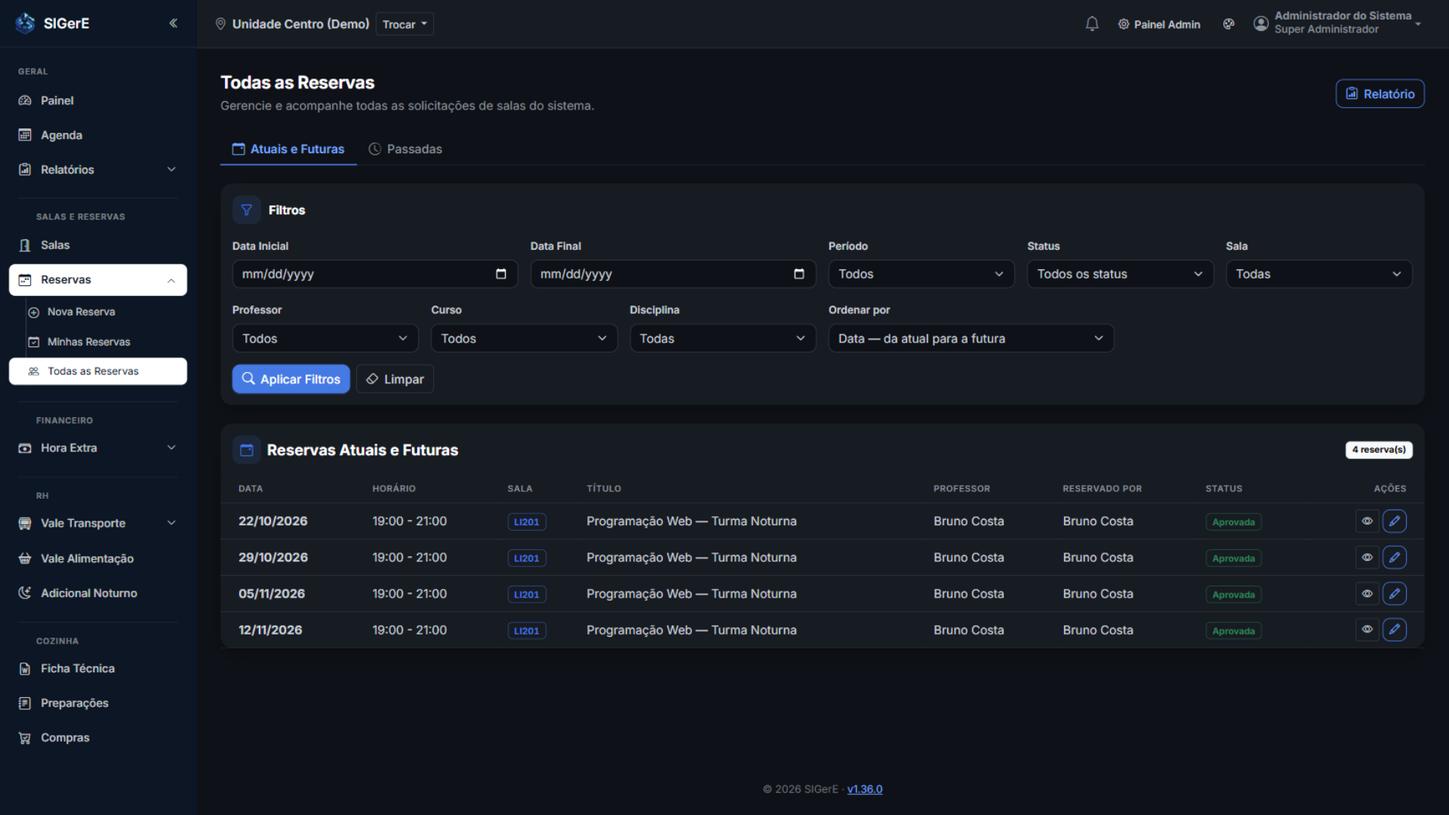
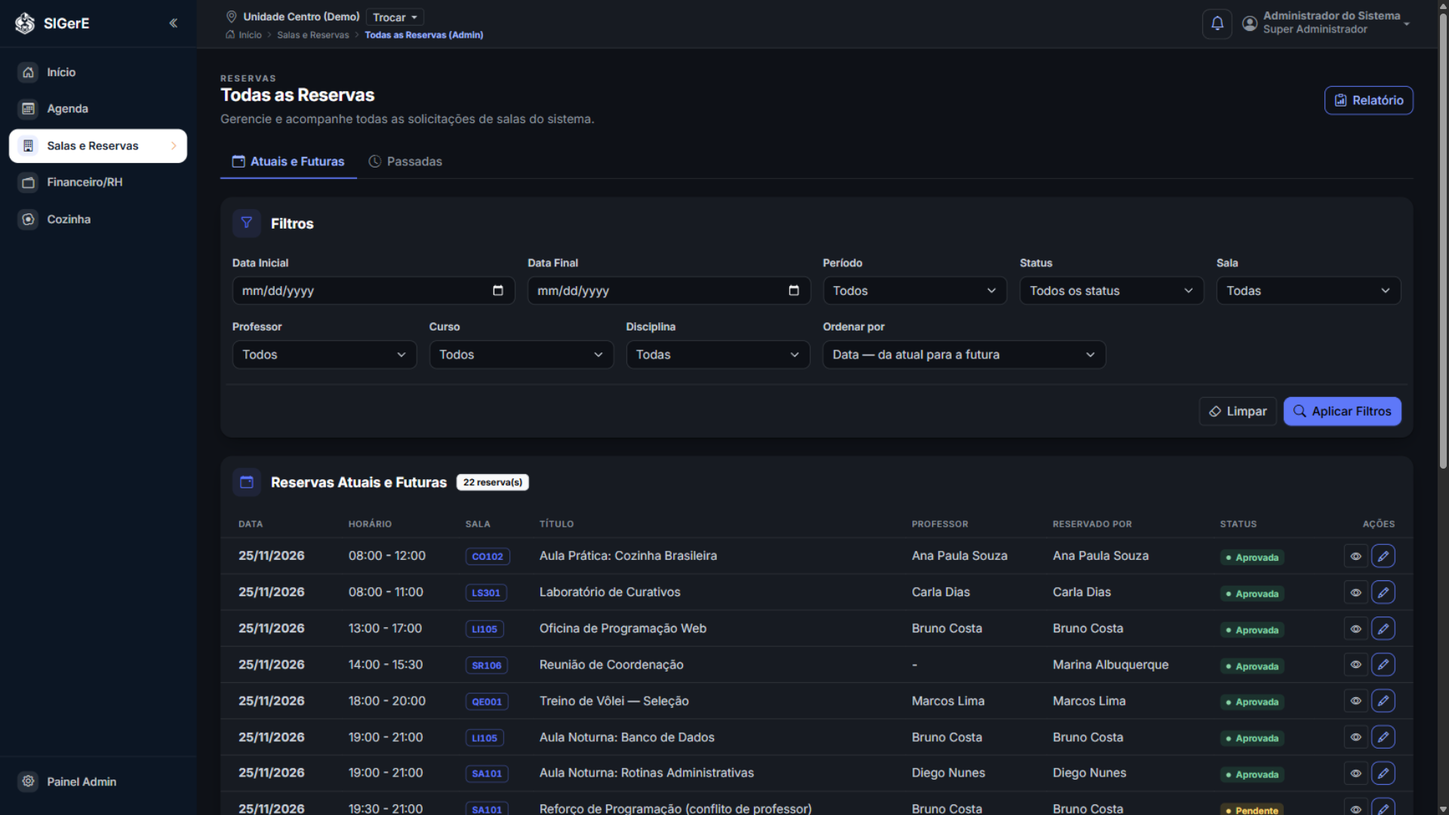
docs: README e capturas de tela atualizados para a v1.44.0
- README cobre as releases 1.38.0 a 1.44.0: hubs de navegação, Pesquisar
  Salas com intervalo de datas, atalho de reserva por dia, troca de perfil
  de usuario, Hora Extra com Tipo de Curso livre, retencao avo/pai/filho e
  verify-restore, modos do setup interativo
- novas secoes: Vale Alimentacao e tabela de comandos de manutenção (CLI)
- 10 capturas refeitas e 7 novas (Salas, Pesquisar Salas, hubs, Relatorio
  Geral, Painel Admin), em 1920x1080 com o cenario seed-demo

diff --git a/README.md b/README.md
@@ -41,7 +41,7 @@ O **SIGerE** é um sistema web desenvolvido em **Flask** para instituições edu
 
 - 🏛 **Reservas de espaços físicos** — salas de aula, auditórios, laboratórios de informática/saúde, cozinhas
 - 👨🏫 **Cronogramas de professores** com detecção automática de conflitos de horário
-- 💰 **Financeiro** — horas extras docentes (lançamento, consulta com filtros e exportação da planilha de pagamento)
+- 💰 **Financeiro/RH** — horas extras docentes, Vale Alimentação e Adicional Noturno (lançamento, consulta com filtros e exportação da planilha de pagamento)
 - 🏥 **RH — Vale Transporte** (formulário público do pedido, conferência e correção pelo RH em "Pedidos VT", relatório do período e exportação das planilhas de pagamento)
 - 🔔 **Notificações** — avisos no sino quando uma atividade reservada se aproxima da data (opt-in por reserva, com marcos de antecedência e destinatários — usuários e grupos — definidos na própria reserva)
 - 🍳 **Cozinha** — fichas técnicas (.docx), preparações e requisição de compra
@@ -50,7 +50,9 @@ O **SIGerE** é um sistema web desenvolvido em **Flask** para instituições edu
 - 🌐 **Portal público** com cronograma do dia e busca de aula para alunos
 - 🏢 **Multi-unidade** — dados isolados por unidade educacional (salas, reservas, cursos, feriados, cozinha); o mesmo usuário pode atuar em várias unidades e alterna a unidade ativa pelo topo
 
-O sistema possui **controle de acesso baseado em papéis (RBAC)** com permissões granulares, tema claro/escuro persistente, exportação de relatórios em PDF/Excel, layout responsivo (mobile/tablet/desktop) e seed opcional de dados de demonstração.
+O sistema possui **controle de acesso baseado em papéis (RBAC)** com permissões granulares, tema claro/escuro persistente, exportação de relatórios em PDF/Excel, layout responsivo (mobile/tablet/desktop) e seed opcional de dados de demonstração. A barra lateral é organizada em **hubs** — Salas e Reservas, Financeiro/RH, Cozinha e Painel Admin —, cada um abrindo em cards-portais para as telas da seção.
+
+**Operação:** o banco tem backup comprimido com retenção avô/pai/filho, upload opcional para nuvem S3-compatível e um comando (`verify-restore`) que prova que o backup volta; o passo a passo do dia que der ruim está em [`docs/runbook-restauracao.md`](docs/runbook-restauracao.md).
 
 **Primeira implantação:** após o `seed-admin`, o painel do super-admin exibe um **checklist de configuração inicial** (unidade, categorias, salas, professores, funcionários, cursos/disciplinas e feriados) — cada passo confere dados reais do banco, marca o que já existe e some quando a implantação está completa.
 
@@ -58,19 +60,27 @@ O sistema possui **controle de acesso baseado em papéis (RBAC)** com permissõe
 
 ## 📸 Capturas de Tela
 
-Telas do sistema com os dados de demonstração (`flask seed`) — disponíveis em [`docs/screenshots/`](docs/screenshots/).
+Telas do sistema na v1.44.0, em 1920×1080 com tema escuro e o cenário de demonstração (`flask seed-demo`) — disponíveis em [`docs/screenshots/`](docs/screenshots/).
 
-| Painel (resumo do dia) | Calendário com filtros |
+| Painel (resumo do dia) | Agenda com filtros |
 |---|---|
-| ![Painel com o resumo das reservas do dia](docs/screenshots/02-dashboard.png) | ![Calendário com filtros de reserva](docs/screenshots/03-calendario.png) |
+| ![Painel com o resumo das reservas do dia](docs/screenshots/02-dashboard.png) | ![Agenda com filtros de reserva](docs/screenshots/03-calendario.png) |
 
-| Lista de Reservas | Disponibilidade mensal da sala |
+| Todas as Reservas | Disponibilidade mensal da sala |
 |---|---|
-| ![Lista de todas as reservas com situações](docs/screenshots/04-reservas.png) | ![Disponibilidade mensal da sala](docs/screenshots/05-disponibilidade-sala.png) |
+| ![Lista de todas as reservas com situações](docs/screenshots/04-reservas.png) | ![Disponibilidade mensal da sala, com feriados marcados e o atalho de reserva por dia](docs/screenshots/05-disponibilidade-sala.png) |
 
-| Totem digital (TV de corredor) | Portal público |
+| Salas (vitrine por andar) | Pesquisar Salas (intervalo de datas e períodos) |
 |---|---|
-| ![Totem de ocupação de salas com clima](docs/screenshots/06-totem.png) | ![Cronograma público do dia](docs/screenshots/08-portal-cronograma.png) |
+| ![Cartões das salas agrupados por andar](docs/screenshots/11-salas.png) | ![Pesquisa de salas com intervalo de datas e períodos aplicados](docs/screenshots/12-pesquisar-salas.png) |
+
+| Hub Salas e Reservas | Hub Financeiro/RH |
+|---|---|
+| ![Central de Salas e Reservas com os cards de Salas, Reservas e Relatórios](docs/screenshots/13-hub-salas-e-reservas.png) | ![Central Financeiro/RH com os cards de Hora Extra, Vale-Transporte, Vale Alimentação e Adicional Noturno](docs/screenshots/14-hub-financeiro-rh.png) |
+
+| Totem digital (TV de corredor) | Cronograma público do dia |
+|---|---|
+| ![Totem de ocupação de salas com clima](docs/screenshots/06-totem.png) | ![Cronograma público do dia por período, com o selo Agora](docs/screenshots/08-portal-cronograma.png) |
 
 | API de Reservas (JSON) | Quadro de porta para tablet (app de exemplo) |
 |---|---|
@@ -81,7 +91,15 @@ Telas do sistema com os dados de demonstração (`flask seed`) — disponíveis 
 
 | Login | Home pública |
 |---|---|
-| ![Tela de login](docs/screenshots/01-login.png) | ![Home pública](docs/screenshots/07-portal-home.png) |
+| ![Tela de login](docs/screenshots/01-login.png) | ![Home pública com busca de aula, cronograma do dia e login](docs/screenshots/07-portal-home.png) |
+
+| Hub Cozinha | Relatório Geral |
+|---|---|
+| ![Central da Cozinha com os cards de Ficha Técnica, Preparações e Compras](docs/screenshots/15-hub-cozinha.png) | ![Relatório Geral de Salas e Reservas com indicadores e gráficos](docs/screenshots/16-relatorio-geral.png) |
+
+| Painel Administrativo | |
+|---|---|
+| ![Painel Administrativo com os cards das áreas de administração](docs/screenshots/17-painel-admin.png) | |
 
 </details>
 
@@ -108,8 +126,10 @@ Telas do sistema com os dados de demonstração (`flask seed`) — disponíveis 
 - **Gerenciamento de série:** edite ou cancele/exclua em lote as reservas geradas por uma repetição (horário, sala, título — com validação de conflito por data) na opção **"Gerenciar Série"** da reserva ou da tela de repetição
 - **Auto-aprovação:** reservas sem conflitos são aprovadas instantaneamente
 - **Reservas passadas são registro:** com a data anterior a hoje, o detalhe fica somente leitura (sem repetir, cancelar, editar ou excluir) e as rotas recusam as alterações — inclusive para administradores
+- **Atalho de reserva por dia:** nas visões de semana e mês da Disponibilidade da sala, cada dia reservável tem um **"+"** que abre a criação de reserva com a sala e a data já preenchidas; domingos e feriados ativos da unidade aparecem com uma faixa com o nome e sem o atalho (sala inativa e datas passadas também não oferecem o atalho)
+- **Fila de pendências a um clique:** quem aprova vê no Painel e no hub Salas e Reservas um atalho para as reservas pendentes
 - **Ciclo de vida:** aprovar, cancelar (status `cancelled` mantém histórico) e excluir permanentemente (admins)
-- **Filtros de disponibilidade:** salas disponíveis agora, em data/período específico ou por categoria
+- **Filtros de disponibilidade:** salas disponíveis agora, em data/período específico ou por categoria — na página **Pesquisar Salas** (ver [Gestão de Salas e Categorias](#-gestão-de-salas-e-categorias))
 - **Compartilhar reserva:** botão no detalhe gera mensagem enxuta e amigável (sala, curso, disciplina, professor, data/hora por extenso e descrição/finalidade) para enviar por **e-mail** ou **WhatsApp** — abre o programa de e-mail (`mailto:`) ou o WhatsApp (`wa.me`) do próprio usuário, sem configuração de SMTP no servidor; mensagem editável antes do envio e opção de copiar. Não aparece em reservas passadas nem canceladas
 
 ### 🏛 Gestão de Salas e Categorias
@@ -118,7 +138,10 @@ Telas do sistema com os dados de demonstração (`flask seed`) — disponíveis 
 - **Categorias padrão da seed:** Sala de Aula (`SA`), Auditório (`AU`), Cozinha (`CO`), Laboratório de Informática (`LI`), Laboratório de Saúde (`LS`) e Quadra de Esportes (`QE`)
 - **Código automático:** geração de códigos no formato `SA101`, `AU101`, `LI105`, `LS301` (sigla da categoria + número da sala)
 - **Atributos da sala:** capacidade, andar, bloco, número e quantidade de computadores
-- **Visualização mensal:** calendário de ocupação por sala com navegação entre meses
+- **Página "Salas" como vitrine** (`/classrooms`): apenas os cartões das salas agrupados por andar, com os botões Relatório e Adicionar Sala
+- **Pesquisar Salas** (`/classrooms/search`): card ao lado de "Salas" no hub Salas e Reservas — o bloco de filtros da antiga listagem virou uma busca própria, com o resultado em cartões abaixo dos filtros e o **Exportar PDF** no topo; a página fica limpa até um filtro ser aplicado. Links antigos da listagem com filtro continuam válidos e redirecionam para a pesquisa com os mesmos critérios
+- **Pesquisa por intervalo de datas:** além do dia único, "Disponível de / até" aceita um intervalo — a sala precisa estar livre nos períodos marcados em **todos os dias** do intervalo; a data final vazia vale dia único, datas invertidas são trocadas e o relatório exportado descreve o intervalo no cabeçalho. Sem período marcado, as datas não filtram
+- **Visualização mensal:** calendário de ocupação por sala com navegação entre semanas e meses
 - **Exportação:** PDF (landscape A4) da listagem e da disponibilidade mensal
 - **Ativação/desativação** de salas e categorias sem exclusão
 
@@ -126,6 +149,8 @@ Telas do sistema com os dados de demonstração (`flask seed`) — disponíveis 
 - **Perfis distintos:**
   - **Professor:** departamento, matrícula, unidade
   - **Funcionário:** setor, função, unidade, com opção de "também atuar como professor"
+- **Troca de perfil na edição:** Professor ↔ Funcionário depois do cadastro, para acompanhar a mudança de função dentro da instituição — os campos de vínculo se ajustam ao novo tipo (professor grava Departamento; funcionário grava Setor e Função, com a marcação "Também cadastrar como Professor" para quem continua lecionando), os campos do perfil anterior são zerados e o papel legado acompanha o perfil. As listas de professores (reservas, agenda, relatórios, Hora Extra, Vale Alimentação, Adicional Noturno e busca pública) refletem a troca na hora
+- **Formulário em seções rotuladas:** Identificação, Vínculo e Lotação, Acesso e Permissões — a Situação do acesso sai do meio do formulário e vai para o cartão **"Acesso e bloqueio"**, que aparece para qualquer operador em modo edição com o badge de três estados (Bloqueada, Inativa, Acesso liberado) e dica de onde desbloquear; tentativas e horário do bloqueio ficam visíveis apenas a quem tem `user:lock`
 - **Busca e filtros:** filtrar usuários por nome ou tipo de perfil, com paginação
 - **Reset de senha pelo admin:** gera uma senha temporária aleatória (exibida uma única vez) e força a troca no próximo login
 - **Segurança:** forçar troca de senha no primeiro login ou após reset administrativo
@@ -160,7 +185,7 @@ Telas do sistema com os dados de demonstração (`flask seed`) — disponíveis 
 - Adaptação automática ao tema claro/escuro
 
 ### 📊 Relatórios (`/relatorios`)
-Menu próprio na barra lateral, logo depois da Agenda, com as duas visões (acesso ligado a `reservation:read_all`); ambos com botão **Imprimir / PDF** na própria página:
+Cards no hub **Salas e Reservas**, com as duas visões (acesso ligado a `reservation:read_all`); ambos com botão **Imprimir / PDF** na própria página:
 - **Relatório Geral (`/relatorios/geral`):** panorama gerencial das reservas da unidade no período escolhido (padrão: mês corrente) — indicadores (reservas aprovadas, horas reservadas, salas utilizadas, docentes envolvidos), gráficos (status, período do dia, dia da semana, horas por sala), ocupação por sala com participação percentual, reservas por curso, carga por docente e o quadro **"Professores e cursos"** com duas abas: *Professores por curso* (total do curso e horas de cada professor) e *Cursos por professor* (carga total do professor e quanto cada curso contribuiu)
 - **Relatório Personalizado (`/relatorios/personalizado`):** monte a própria relação de reservas combinando **período** (datas), **status** (aprovadas/pendentes/canceladas), **sala**, **professor**, **curso**, **disciplina**, **período do dia** (manhã/tarde/noite), **busca no título**, **ordenação** (crescente/decrescente) e **agrupamento** por data, sala, professor, curso, disciplina ou sem agrupamento — faixas de grupo com contagem e horas somadas, KPIs do filtro (reservas, horas, salas e professores diferentes) e descrição dos filtros aplicados sob o título; impressão em paisagem
 - A URL antiga `/reservations/relatorio` continua viva e redireciona para o Relatório Geral preservando os filtros
@@ -175,24 +200,37 @@ Menu próprio na barra lateral, logo depois da Agenda, com as duas visões (aces
 - **Varredura agendada:** comando idempotente `flask --app run notify-scan` (systemd timer a cada 15 minutos em produção; `--dry-run` para prévia)
 - **Cancelamento automático de pendências:** comando idempotente `flask --app run autocancel-pendentes` (mesmo timer do `notify-scan`; `--dry-run` para prévia) cancela a reserva pendente que não foi aprovada até 1 hora antes do horário agendado — inclui pendências cujo início já passou — e avisa o criador com o motivo
 
-### 💰 Financeiro
-- **Horas Extras:** com nível de ensino, valor hora, turno e dias selecionados no calendário (gravados apenas como dia, separados por vírgula — o mês/ano vêm do Mês Base)
+### 💰 Financeiro/RH (`/financeiro-rh`)
+Os módulos financeiros e de RH vivem num hub único da barra lateral — Hora Extra, Vale-Transporte, Vale Alimentação e Adicional Noturno —, com cards-portais que só mostram os caminhos permitidos para quem acessa. As URLs antigas `/financeiro` e `/rh` redirecionam para cá.
+
+#### Hora Extra (`/payments/overtime`)
+- **Horas Extras:** com nível de ensino, valor hora, turno e dias selecionados no calendário (gravados apenas como dia, separados por vírgula — o mês/ano vêm do Mês Base); o **Tipo de Curso é texto livre** (até 60 caracteres), sem catálogo
 - **Regras de negócio:**
-  - Janela de lançamento: do dia 21 do mês anterior ao dia 20 do mês de referência (o Mês Base segue essa janela)
+  - Janela de lançamento: do dia 21 do mês anterior ao dia 20 do mês de referência (o Mês Base segue essa janela); o pagamento acontece no mês seguinte ao de referência
   - O gestor pode **fechar o mês** ("Fechar Mês"); fechado, o mês fica somente leitura para lançamento, edição e exclusão
+- **Dica do Mês de Referência:** abaixo do campo, uma frase por linha informa o intervalo de lançamento e o mês de pagamento; as opções do seletor seguem a janela 20→20
 - **Consulta:** filtro de Mês Base em caixa de seleção (meses já lançados + mês atual, abrindo no mês atual, com opção "Todos os meses") combinado com filtro por professor
 - **Código Orçamentário:** máscara automática com pontos — `xx.xx.xxxx.x` (9 dígitos) ou `xx.xx.xxxx.xx.xxxx` (14 dígitos), aplicada no cadastro e na exportação
 - **Exportação Excel:** planilha formatada com modelo pré-definido (`base_pagamento_extra.xlsx`), filtrável por mês e/ou professor
+- **Professor gravado é preservado:** na edição, o professor do lançamento permanece selecionável mesmo que a conta tenha deixado de ser professor (troca de perfil ou desativação) — salvar sem mexer no seletor não reatribui o lançamento
+
+#### Vale Alimentação — Professores (`/payments/meal-allowance`)
+- **Lançamentos:** um registro por professor e mês de referência, com a quantidade de dias trabalhados, na mesma página de consulta (filtro por mês e professor)
+- **Listar Professores dos Agendamentos:** importa um lançamento para cada professor com reserva aprovada no mês escolhido — os dias são a quantidade de datas distintas com aula (duas aulas no mesmo dia contam uma vez); quem já possui lançamento no mês é mantido, então repetir não duplica
+- **Edição e limpeza:** correção e exclusão individuais, e limpeza de todos os lançamentos da unidade (independente do filtro da listagem)
+- **Exportação Excel:** planilha `vale_alimentacao_professores.xlsx`, uma linha por professor
+- **Permissões:** `meal:read`, `meal:create`, `meal:edit`, `meal:delete`
 
 ### 🏥 RH — Vale Transporte (`/vt`)
-Módulo no bloco **RH** do menu lateral (o Financeiro concentra apenas a Hora Extra). O ciclo do mês tem duas pontas: o **colaborador responde o formulário público** e o **RH confere, corrige e exporta** em Pedidos VT:
+Módulo do hub **Financeiro/RH**. O ciclo do mês tem duas pontas: o **colaborador responde o formulário público** e o **RH confere, corrige e exporta** em Pedidos VT:
 - **Formulário público (`/vt/pedido`):** sem login, o colaborador informa o e-mail e clica em **Buscar** — conta ativa é apenas confirmada na tela (primeiro nome e vínculo) e nome, matrícula e vínculo são preenchidos pelo cadastro no envio (quem já está logado no sistema chega com os próprios dados preenchidos; e-mail sem conta, os campos ficam livres para digitação) —, se deseja VT no mês e, para cada empresa de ônibus usada (1 ou 2), a tarifa vigente, o trajeto (Somente Volta ou Ida e Volta) e o número de vales necessários; link por unidade (`/vt/pedido?unity=<id>`), com data de fechamento opcional que encerra o preenchimento
-- **Pedidos VT (`/vt/pedidos`):** listagem das respostas da unidade com botão **"Copiar link do formulário"**, filtros (busca por nome/e-mail/matrícula, vínculo, deseja VT, ordenação, esconder não optantes com valor R$ 0,00), correção individual de qualquer campo e exclusão de pedidos inválidos
+- **Busca sem expor o cadastro:** nome completo, matrícula e vínculo só saem do servidor no envio do pedido (proteção contra enumeração de cadastros no formulário anônimo); visitante logado com e-mail divergente do campo segue pela busca normal
+- **Pedidos VT (`/vt/pedidos`):** listagem das respostas da unidade com botão **"Copiar link do formulário"**, filtros (busca por nome/e-mail/matrícula, vínculo, deseja VT, ordenação, esconder não optantes com valor R$ 0,00), correção individual de qualquer campo — quem corrige (`vt:edit`) digita exatamente o que deve ser gravado, sem sobrescrita pelo cadastro — e exclusão de pedidos inválidos
 - **Planilha de pagamento:** exportação Excel por grupo — Todos os grupos, Técnico-Administrativo ou Professores — preenchendo o modelo `planilha_base_vt.xlsx` (Matrícula, Nome e Valor Total a partir da linha 5, máximo de 72 linhas por arquivo); inclui apenas Optante "Sim" com passes maior que zero; a coluna UO e a tabela de códigos de unidades do modelo são preservadas intactas
 - **Relatório (`/vt/relatorio`):** indicadores do período (pedidos recebidos, adesão dos optantes, vales necessários, investimento estimado), gráficos (deseja VT, optantes por vínculo, trajetos, investimento por empresa), resumo por empresa de ônibus e conferência do RH (e-mails e matrículas repetidas), com versão para imprimir/PDF
 - **Administração:** cadastro de **Empresas de Ônibus** com tarifas (pares identificação + valor, ex.: "Patamar 3" + `7,24`) e **Configurações do Pedido VT** (números base de vales por trajeto e data de fechamento) — ambos no Painel Admin e usados pelo formulário público
 
-### 🌙 RH — Adicional Noturno (`/adicional-noturno`)
+### 🌙 Adicional Noturno — Professores (`/adicional-noturno`)
 Adaptação web do gerador local "Gerador-Ad-Noturno-SENAC-FL": o formulário replica as colunas da planilha **"Adicional Noturno Professores"** (Matrícula, Professor, Adicional Noturno Sim/Não, Horas/Aula, Minutos e Unidade) e a exportação preenche a planilha de pagamento no modelo `planilha_base_an.xlsx` ("TABELA PARA PAGAMENTO ADICIONAL NOTURNO PROFESSOR"):
 - **Lançamentos (`/adicional-noturno`):** formulário e listagem na mesma página, com mês de referência (cada lançamento fica no mês escolhido e o filtro mostra um mês por vez), referência dos códigos UO das unidades do Senac SC e correção individual (editar/excluir, `an:edit` / `an:delete`)
 - **Importação da planilha:** upload do arquivo `.xlsx` no modelo "Adicional Noturno Professores" — as colunas são localizadas pelo cabeçalho da primeira linha (Matrícula, Professor, Adicional Noturno, Horas/Aula, Minutos e Unidade) e cada linha com matrícula e professor vira um lançamento no mês selecionado; quem já possui lançamento no mês é mantido, então reimportar não duplica
@@ -201,6 +239,7 @@ Adaptação web do gerador local "Gerador-Ad-Noturno-SENAC-FL": o formulário re
 - **Permissões:** `an:read`, `an:create`, `an:edit`, `an:delete`, `an:export`
 
 ### 🍳 Cozinha (`/kitchen`)
+Módulo do hub **Cozinha** (`/cozinha`), que reúne os cards de Fichas Técnicas, Preparações e Compras — a criação da ficha e o upload dos arquivos também podem ser feitos direto do hub.
 - **Ficha Técnica:** envio de múltiplos arquivos `.docx` de fichas técnicas operacionais de uma vez; o sistema lê o conteúdo do modelo em tabelas (nome da preparação, equipamentos, utensílios, tempo de preparo, rendimento, tabela única de insumos com especificações/quantidade/unidade, modo de preparo e notas técnicas — observações, alergênicos e referências) e um botão **Salvar Ficha Técnica** gera a preparação; também é possível **criar a ficha manualmente** pelo botão "Criar Ficha Técnica", no mesmo modelo
 - **Preparações:** cada ficha salva gera uma receita visualizável em **cards ou lista** (à escolha do usuário, persistida no navegador), com busca por nome; a visualização completa traz equipamentos, utensílios, tempo, rendimento, ingredientes por preparação (especificação, quantidade e unidade), modo de preparo geral, alergênicos, observações e referências; os ingredientes podem ser **editados e ativados/desativados** — desativados, ficam de fora da requisição de compra; há **recálculo das quantidades por porções desejadas** (base = menor rendimento informado, ex.: "4 a 6 porções" usa 4) com prévia instantânea e botão **Salvar quantidades**, que persiste a escala na preparação — a partir daí a exibição e a requisição de compra usam os novos valores, com "Restaurar originais" para voltar ao rendimento da ficha — e **edição de todos os campos da preparação**
 - **Compras:** seleção de múltiplas preparações e **soma dos ingredientes por similaridade** (acentos, plurais e parênteses normalizados), com conversão automática de unidades (g→KG, ml→L, un→UN) e exportação da **requisição de compra em Excel** preenchendo o modelo `app/static/templates_excel/base_planilha_compras.xlsx` ("REQUISIÇÃO DE COMPRA - GASTRONOMIA", com aba de centros de custo); a coluna OBSERVAÇÃO é exportada em branco, com as linhas da grade, para ser preenchida posteriormente
@@ -217,7 +256,11 @@ Adaptação web do gerador local "Gerador-Ad-Noturno-SENAC-FL": o formulário re
 
 ### 🎨 UI/UX
 - **Aparência:** um único seletor na barra superior reúne o tema claro/escuro e a cor da interface (Azul Senac padrão, Verde, Turquesa, Roxo, Rosa, Vermelho, Laranja ou Grafite), com escolha persistida no `localStorage`
+- **Hubs de navegação:** a barra lateral achatada reúne as telas em três hubs — Salas e Reservas, Financeiro/RH e Cozinha — além do Painel Admin; cada hub abre um bloco de conteúdos por vez (cards-portais), e os itens que não aparecem para quem não tem permissão somem sozinhos. As antigas centrais separadas de Financeiro e RH foram fundidas
 - **Menu lateral contrátil:** botão no cabeçalho alterna entre expandido e modo compacto de ícones (desktop), com preferência salva no navegador; clicar num grupo com submenu reexpande o menu
+- **Login e landing coesos:** as duas telas compartilham o mesmo formulário, com caixa única para os campos
+- **Mobile:** o menu lateral tem backdrop e fecha ao tocar fora ou com ESC; a unidade ativa e a trilha aparecem na barra superior do celular, onde também é possível trocar de unidade
+- **Tema escuro completo:** tabelas, trilha de progresso, campo de arquivo e modal de disponibilidade acompanham o modo escuro
 - **Design responsivo:** Bootstrap 5, todas as páginas adaptadas a mobile, tablet e desktop
 - **Interface em Português:** todo o sistema localizado para pt-BR
 - **Paginação** reutilizável em listagens (`_pagination.html`)
@@ -240,7 +283,7 @@ Adaptação web do gerador local "Gerador-Ad-Noturno-SENAC-FL": o formulário re
 | **Relatórios** | FPDF2 (PDF), OpenPyXL (Excel) |
 | **Rate limiting** | Flask-Limiter |
 | **Produção** | Gunicorn (WSGI) + Nginx (proxy/TLS) |
-| **Backup** | Comando `flask backup` (SQLite/PostgreSQL, gzip + retenção) com upload para nuvem S3-compatível e agendamento por systemd timer/cron |
+| **Backup** | Comando `flask backup` (SQLite/PostgreSQL, gzip + retenção avô/pai/filho) com upload para nuvem S3-compatível; `flask verify-restore` prova que o backup volta; agendamento por systemd timer/cron |
 | **APIs Externas** | [Open-Meteo](https://open-meteo.com/) (clima), [BrasilAPI](https://brasilapi.com.br/) (feriados), [Nominatim/OpenStreetMap](https://nominatim.org/) (geocodificação) |
 
 ---
@@ -254,6 +297,8 @@ Guias detalhados disponíveis no diretório [`docs/`](docs/):
 | 📘 [Manual do Usuário](docs/manual-do-usuario.pdf) | Operação do sistema para todos os perfis: acesso, reservas, notificações, salas, calendário, portal público, totem, financeiro (hora extra), RH (Vale-Transporte, Vale Alimentação e Adicional Noturno), cozinha, administração (incluindo auditoria) e API |
 | 🛠 [Desenvolvimento e Debug](docs/desenvolvimento-debug.md) | Ambiente na sua máquina: modo debug (`FLASK_DEBUG`), banco local, migrações, testes, depuração e erros comuns |
 | 🚢 [Implantação em Produção](docs/implantacao-producao.md) | Servidor real: PostgreSQL, Redis, Gunicorn + systemd, Nginx, HTTPS, atualização, backup e solução de problemas |
+| 🚑 [Runbook de restauração](docs/runbook-restauracao.md) | O dia que der ruim: como restaurar o banco em PostgreSQL e SQLite, quanto tempo leva e o que se perde |
+| 🧭 [Guia de continuidade](docs/guia-continuidade.md) | O projeto em 60 segundos: ambiente, fluxo de branches/PRs, ciclo de release, produção e decisões de design já tomadas |
 | 📡 [API de Reservas](docs/api-reservas.md) | Uso da API REST de leitura para apps externos: autenticação, parâmetros, exemplos e FAQ |
 | 🗂 [Permissões e Papéis](docs/permissoes.md) | Catálogo completo de permissões e matriz papel × permissão (gerado por `docs/gerar_permissoes.py`) |
 | 📦 [Migração do sistema legado](docs/migracao-legado.md) | Importação *one-shot* do banco antigo (Django/MySQL) para o SIGERE |
@@ -271,10 +316,15 @@ Guias detalhados disponíveis no diretório [`docs/`](docs/):
 
 ### Setup interativo (atalho)
 
-O script abaixo guia toda a instalação com perguntas — ambiente virtual, dependências,
-geração do `.env` (SECRET_KEY e banco de dados), schema, população inicial (implantação
-real, demonstração ou migração do legado), unidades do Senac SC e, opcionalmente, a
-subida do servidor. É seguro rodá-lo mais de uma vez (etapas já feitas são reaproveitadas):
+O script abaixo é o atalho para o dia a dia do sistema, com três modos escolhidos no início:
+
+| Modo | O que faz |
+|------|-----------|
+| **Instalação completa** | Máquina nova, do zero: ambiente virtual, dependências, geração do `.env` (SECRET_KEY e banco de dados SQLite/PostgreSQL, com Redis para o rate limit), schema, população inicial (implantação real, demonstração ou migração do legado), unidades do Senac SC e, opcionalmente, a subida do servidor de desenvolvimento |
+| **Atualizar o sistema** | Nova versão do código, dependências, migrações e permissões |
+| **Restaurar um backup** | Devolve o banco a partir de um snapshot local (SQLite ou PostgreSQL) |
+
+É seguro rodá-lo mais de uma vez (etapas já feitas são reaproveitadas):
 
 ```bash
 python setup_interativo.py
@@ -334,7 +384,29 @@ A aplicação estará disponível em: **http://localhost:5000**
 
 > **Unidades do Senac SC:** para cadastrar as unidades educacionais reais (extraídas do portal https://portal.sc.senac.br/unidades), execute `flask --app run seed-unidades` — cria as unidades ausentes e atualiza endereço/telefone das existentes a partir de `docs/unidades-senac-sc.json`. O comando é idempotente e pode ser executado mais de uma vez.
 
-> **Atualizando uma instalação existente:** após `git pull`, execute `flask --app run db upgrade` (aplica migrações de schema novas) e `flask --app run sync-permissions` (permissões de módulos novos).
+> **Atualizando uma instalação existente:** após `git pull`, execute `flask --app run db upgrade` (aplica migrações de schema novas) e `flask --app run sync-permissions` (permissões de módulos novos) — ou rode `python setup_interativo.py` e escolha **Atualizar o sistema**.
+
+### Comandos de manutenção (CLI)
+
+Todos na forma `flask --app run <comando>`; comandos de manutenção não exigem `SECRET_KEY` nem `FLASK_DEBUG`.
+
+| Comando | Para quê |
+|---------|----------|
+| `db upgrade` / `db migrate` | Aplicar / gerar migrações de schema (Flask-Migrate) |
+| `seed-admin` | Implantação real: cria apenas o administrador, com senha definida por você |
+| `seed` | Administrador com senha aleatória + pergunta sobre dados de demonstração |
+| `seed-demo` | Cenário de demonstração completo (só em modo desenvolvimento) |
+| `seed-unidades` | Cadastra as unidades do Senac SC (idempotente) |
+| `sync-permissions` | Atualiza papéis e permissões de módulos novos |
+| `import-legacy` | Importação *one-shot* do banco legado (Django/MySQL) |
+| `unlock-user` | Destrave de emergência de conta bloqueada (registrado na auditoria) |
+| `backup` | Snapshot comprimido do banco, retenção e upload para a nuvem |
+| `verify-restore` | Restaura o backup mais recente num banco descartável e confere as tabelas e a contagem de linhas |
+| `notify-scan` | Gera os avisos de notificação (agendado a cada 15 minutos em produção) |
+| `notify-email` / `notify-cleanup` | Envia o espelho dos avisos por e-mail / apaga notificações lidas antigas |
+| `autocancel-pendentes` | Cancela reserva pendente sem aprovação até 1 hora antes do início |
+
+`notify-scan`, `notify-email`, `notify-cleanup` e `autocancel-pendentes` aceitam `--dry-run` para prévia.
 
 ---
 
@@ -374,11 +446,16 @@ export SECRET_KEY="sua-chave-secreta-forte-aqui"
 export DATABASE_URL="postgresql://user:pass@localhost/sigere"
 export RATELIMIT_STORAGE_URI="redis://localhost:6379/0"   # com múltiplos workers
 export BACKUP_S3_BUCKET=""                                # opcional: bucket S3-compatível para o `flask backup`
+export BACKUP_DAILY_KEEP="7"                              # backup: quantas datas recentes manter
+export BACKUP_WEEKLY_KEEP="4"                             # backup: quantas semanas ISO anteriores guardar (1 backup por semana)
+export BACKUP_RETENTION_DAYS="45"                         # backup: teto de idade (0 = manter tudo)
 ```
 
 > **Obrigatório em produção:** sem `SECRET_KEY` definida (fora do modo debug), a aplicação se recusa a iniciar. Além disso, os cookies de sessão recebem o atributo `Secure` automaticamente quando `FLASK_DEBUG != true` — sirva a aplicação atrás de HTTPS.
 >
-> **Backup:** `flask --app run backup` gera o snapshot comprimido do banco com retenção automática e, com `BACKUP_S3_BUCKET` definido, envia para a nuvem e limpa os vencidos — guia completo (agendamento, restauração, provedores) em [docs/implantacao-producao.md](docs/implantacao-producao.md).
+> **Backup:** `flask --app run backup` gera o snapshot comprimido do banco e, com `BACKUP_S3_BUCKET` definido, envia para a nuvem. A retenção é **avô/pai/filho**: ficam os backups das 7 datas mais recentes (`BACKUP_DAILY_KEEP`) mais o mais novo de cada uma das 4 semanas ISO anteriores (`BACKUP_WEEKLY_KEEP`) — cerca de 35 dias de alcance com poucos arquivos —, e `BACKUP_RETENTION_DAYS` é o teto de idade (nada mais velho sobrevive, nem semanal). A política vale para a pasta local e para os objetos do bucket. Guia completo (agendamento, restauração, provedores) em [docs/implantacao-producao.md](docs/implantacao-producao.md).
+>
+> **A prova de que o backup volta:** `flask --app run verify-restore` restaura o backup mais recente — baixado da nuvem quando `BACKUP_S3_BUCKET` está definido, então é a cópia fora do servidor que é testada — num banco descartável separado da produção (`<nome>_verificacao`, apagado ao final) e confere toda tabela e a contagem de linhas (`--tolerancia N` aceita desvio; padrão zero). Imprime o tempo de restauração medido e termina com código 1 quando o backup não volta; no PostgreSQL o usuário do banco precisa de `CREATEDB`. O timer diário documentado roda o `verify-restore` logo após o backup.
 
 ### Configurar localização do clima (Totem e portal)
 
@@ -577,7 +654,7 @@ venv/bin/flask --app run sync-permissions
 ### Fluxo típico de reserva
 
 1. **Login** com uma conta de Professor ou Administrador
-2. Acesse **Salas** e filtre por disponibilidade
+2. Acesse **Salas e Reservas → Pesquisar Salas** e filtre por disponibilidade
 3. Clique em **Reservar** ou acesse **Minhas Reservas → Nova Reserva**
 4. Preencha sala, data, horário, curso, disciplina e professor
 5. O sistema verifica conflitos e o perfil de quem cria automaticamente:
@@ -612,10 +689,12 @@ Administradores com permissão `unity:switch` (ou `*`) veem o **seletor de unida
 
 ### Exportar relatórios
 
-- **Salas:** `/classrooms/export_pdf` (PDF)
-- **Disponibilidade mensal:** `/classrooms/<id>/export_availability` (PDF)
+- **Salas:** `/classrooms/export_pdf` (PDF — botão **Exportar PDF** da Pesquisar Salas, com os filtros da tela)
+- **Disponibilidade da sala:** `/classrooms/<id>/export_availability` (PDF; descreve o intervalo de datas no cabeçalho)
 - **Aulas do calendário:** `/calendar/export_pdf` (PDF, com os filtros da tela: datas, período, sala, professor, curso e disciplina)
 - **Horas extras:** `/payments/export/overtime` (Excel)
+- **Vale Alimentação:** `/payments/meal-allowance/export` (Excel, com os filtros de mês/professor da tela)
+- **Adicional Noturno:** `/adicional-noturno/exportar` (Excel, modelo `planilha_base_an.xlsx`)
 - **Vale Transporte:** `/vt/pedidos/exportar-pagamento?group=tecnico|professores` (Excel, modelo `planilha_base_vt.xlsx`; sem `group`, exporta todos os grupos)
 - **Requisição de compra:** `/kitchen/compras/export` (Excel, via seleção de preparações)
 
@@ -636,6 +715,10 @@ SIGerE/
 │   ├── permissoes.md          # Catálogo de permissões gerado por gerar_permissoes.py
 │   ├── migracao-legado.md     # Migração one-shot do sistema legado (Django/MySQL)
 │   ├── backlog-seguranca.md   # Ideias de endurecimento de segurança pendentes
+│   ├── runbook-restauracao.md # Passo a passo para restaurar o banco no dia que der ruim
+│   ├── guia-continuidade.md   # Projeto em 60 segundos: ambiente, fluxo de PRs, release, produção
+│   ├── apresentacao/          # Apresentação do sistema (HTML/PDF)
+│   ├── mockups/               # Mockups de redesign (referência)
 │   ├── manual-do-usuario.pdf  # Manual do usuário (gerado por gerar_manual.py)
 │   └── screenshots/           # Imagens exibidas no README
 ├── examples/                  # Apps de exemplo consumindo a API (quadro de sala para tablet)
@@ -651,10 +734,11 @@ SIGerE/
     ├── permissions.py         # Decoradores de controle de acesso por permissão
     ├── unity_context.py       # Contexto multi-unidade (unidade ativa, seletor, escopo de queries)
     ├── utils.py               # Utilitários compartilhados (trilha de auditoria)
-    ├── commands.py            # CLI (seed, seed-admin, sync-permissions, unlock-user…) e catálogo de permissões/papéis
+    ├── commands.py            # CLI (seed, seed-admin, sync-permissions, unlock-user, notify-*, autocancel-pendentes…) e catálogo de permissões/papéis
     ├── seed_demo.py           # Cenário de demonstração completo (flask seed-demo)
     ├── legacy_import.py       # Importação do banco legado (flask import-legacy)
-    ├── backup.py              # Backup do banco (flask backup: gzip, retenção, S3)
+    ├── backup.py              # Backup do banco (flask backup: gzip, retenção avô/pai/filho, S3)
+    ├── restore_verify.py      # Prova de que o backup volta (flask verify-restore)
     ├── version.py             # APP_VERSION e histórico de releases (tela /changelog)
     │
     ├── services/              # Lógica de negócio compartilhada
@@ -666,9 +750,9 @@ SIGerE/
     │
     ├── blueprints/            # Um módulo (ou subpacote) por funcionalidade
     │   ├── auth.py            # Autenticação (login, logout, troca de senha)
-    │   ├── main.py            # Dashboard, novidades (/changelog) e troca de unidade ativa
+    │   ├── main.py            # Dashboard, hubs de navegação, novidades (/changelog) e troca de unidade ativa
     │   ├── admin.py           # Painel admin (usuários, salas, categorias, cursos, feriados, papéis, unidades, tokens, auditoria)
-    │   ├── classrooms.py      # Salas: listagem, detalhes, disponibilidade e exportação
+    │   ├── classrooms.py      # Salas: vitrine, pesquisa com filtros, detalhes, disponibilidade e exportação
     │   ├── reservations.py    # Reservas: CRUD, aprovações, repetição, séries e conflitos
     │   ├── schedule.py        # Calendário de reservas, API JSON de eventos e exportação em PDF
     │   ├── relatorios.py      # Relatório Geral e Relatório Personalizado
@@ -698,13 +782,15 @@ SIGerE/
         ├── calendar.html      # Calendário de reservas com filtros
         ├── changelog.html     # Tela de novidades (/changelog)
         ├── totem.html         # Interface do quiosque
+        ├── _acesso_macros.html, _cabecalho.html, _form_login.html  # Macros de acesso, cabeçalho de tela e formulário de login
+        ├── hubs/              # Centrais de seção (Salas e Reservas, Financeiro/RH, Cozinha)
         ├── _pagination.html   # Macro de paginação reutilizável
         ├── _aula_macros.html  # Macros compartilhadas das telas de aula/cronograma
         ├── auth/              # Login, troca de senha
         ├── admin/             # Dashboard admin, usuários, salas, categorias, cursos, disciplinas, feriados, papéis, unidades, auditoria
         ├── classrooms/        # Listagem, detalhes, disponibilidade mensal
         ├── reservations/      # Criar, editar, detalhes, minhas reservas, repetição, séries
-        ├── payments/          # Formulário e listagem de horas extras
+        ├── payments/          # Hora Extra e Vale Alimentação (formulários e listagens)
         ├── vt/                # Vale Transporte: pedido público, pedidos VT, edição e relatório
         ├── an/                # Adicional Noturno: lançamentos e edição
         ├── notifications/     # Sino, centro de notificações e grupos
@@ -939,6 +1025,7 @@ matriz completa papel × permissão é gerada em [docs/permissoes.md](docs/permi
 - **Limite de upload** de 16 MB (`MAX_CONTENT_LENGTH`)
 - **Fichas técnicas fora de `static/`:** armazenadas em `instance/uploads/` e servidas apenas pela rota autenticada de download
 - **Escapagem de dados dinâmicos** em mensagens renderizadas com `|safe` (anti-XSS)
+- **Formulário público de VT sem enumeração de cadastros:** a busca por e-mail apenas confirma a conta (primeiro nome e vínculo); nome completo, matrícula e vínculo só são preenchidos pelo servidor no envio
 - **Rate limiting no login** (5 tentativas por minuto por IP, via Flask-Limiter) com aviso amigável ao exceder
 - **API do calendário protegida:** intervalo de datas obrigatório e login exigido, evitando consultas sem limite
 - **API de reservas com mínimo de dados anônimo:** sem token expõe apenas data, horário, sala e título de reservas aprovadas; acesso completo via Bearer token gerado no painel admin (permissão `api:manage`), armazenado como hash SHA-256 com revogação imediata, erros em JSON e rate limiting por IP
